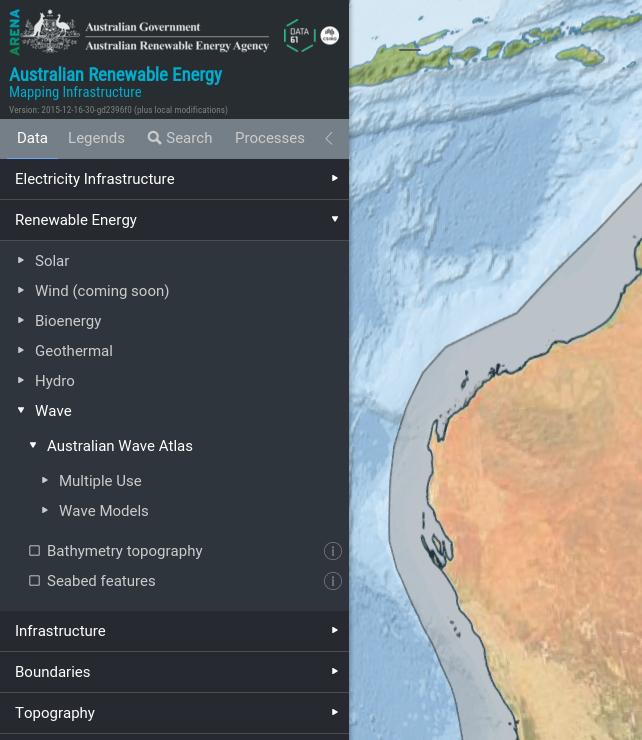
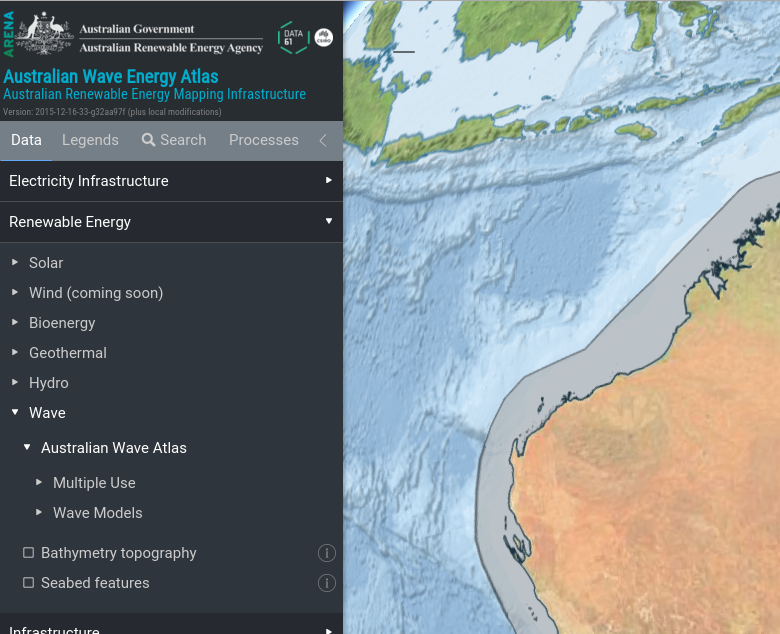
More changes to About.html

diff --git a/wwwroot/index.html b/wwwroot/index.html
@@ -6,6 +6,7 @@
     <meta name="viewport" content="width=device-width, height=device-height, initial-scale=1, maximum-scale=1, minimum-scale=1, user-scalable=no">
     <meta name="description" content="AREMI">
     <meta name="copyright" content="Copyright(c) 2012-2015 National ICT Australia Limited (NICTA).  All rights reserved.">
+    <meta name="copyright" content="Copyright(c) 2015-2016 Commonwealth Scientific and Industrial Research Organisation (CSIRO).  All rights reserved.">
     <meta name="apple-mobile-web-app-capable" content="yes">
 
     <link rel="apple-touch-icon" sizes="57x57" href="favicons/apple-icon-57x57.png">
@@ -27,7 +28,7 @@
     <meta name="msapplication-TileImage" content="favicons/ms-icon-144x144.png">
     <meta name="theme-color" content="#282D32">
 
-    <title>AREMI</title>
+    <title>AWAVEA</title>
 
     <!-- Fonts -->
     <link href='//fonts.googleapis.com/css?family=Roboto:300italic,400,300' rel='stylesheet' type='text/css'>
@@ -45,7 +46,7 @@
     <div id="cesiumContainer" class="full-window map-displaced"></div>
     <div id="ui" class="full-window transparent-to-input">
       <div class="nationalmap-print-disclaimer">
-        ARENA, NICTA and Geoscience Australia (“We”) make no representations or warranties regarding the accuracy or completeness of any content or the product in connection with AREMI. We disclaim all responsibility and all liability (including without limitation, liability in negligence, for errors or omissions) for all expenses, loss, damage and costs which you might incur as a result of the information displayed on AREMI and your use of it. AREMI must not be used for navigation or precise spatial analysis.
+        ARENA, NICTA, CSIRO and Geoscience Australia (“We”) make no representations or warranties regarding the accuracy or completeness of any content or the product in connection with AWAVEA and AREMI. We disclaim all responsibility and all liability (including without limitation, liability in negligence, for errors or omissions) for all expenses, loss, damage and costs which you might incur as a result of the information displayed on AREMI and your use of it. AWAVEA and AREMI must not be used for navigation or precise spatial analysis.
       </div>
     </div>
     <div id="loadingIndicator" class="loadingIndicator"></div>

diff --git a/index.js b/index.js
@@ -214,9 +214,9 @@ terria.start({
                 <a href="http://arena.gov.au/" target="_blank"><img class="left"  src="images/ARENA-logo2.png" alt="Australian Renewable Energy Agency" /></a>\
                 <a href="https://www.nicta.com.au/" target="_blank"><img class="right" src="images/DATA61_CSIRO.png" alt="NICTA" width="55px" height="33px"/></a>\
                 <br/>\
-                <strong>Australian Renewable Energy</strong>\
+                <strong>Australian Wave Energy Atlas</strong>\
                 <br/>\
-                <small>Mapping Infrastructure</small>\
+                <small>Australian Renewable Energy Mapping Infrastructure</small>\
                 <br/>\
                 <span><a target="_blank" href="https://github.com/NICTA/aremi-natmap/blob/master/Changelog.md#version-' + version + '">Version: ' + version + '</a></span>\
             </div>'

diff --git a/wwwroot/About.html b/wwwroot/About.html
@@ -99,6 +99,8 @@
 
         <p>Just go to <a href="http://awavea.csiro.au">http://awavea.csiro.au</a>. The initial map view will show the study area (grey shaded) where wave data can be viewed and analyzed. Most operations are obvious, but you can click the <a href="help/Help.html">Help</a> button for specific instructions.</p>
 
+				<img src="/images/initial-screenshot.png"/>
+
         <p>To see what data is available on <strong>AWAVEA</strong>, refer to the Data Tab in the
         <a href="http://awavea.csiro.au">AWAVEA</a> itself. Click the <b>Data</b> tab and expand the Data Set group names. Wave specific data is available in Renewable Energy>Wave>Australian Wave Atlas.</p>
 

diff --git a/lib/Views/DevelopmentDisclaimer.html b/lib/Views/DevelopmentDisclaimer.html
@@ -7,10 +7,6 @@
     margin: 20px 20px;
 ">
 
-This is the prototype website for the Australian Wave Atlas which will be part of AREMI. It is used for development evaluation purposes only - do not rely on this site or any data presented here for any reason.
-
-<p>To visit the official AREMI site please follow this link:</p>
-
-<p><a href="http://nationalmap.gov.au/renewables/">http://nationalmap.gov.au/renewables/</a></p>
+This is the prototype website for the Australian Wave Energy Atlas (AWAVEA) which is part of AREMI. It is used for development evaluation purposes only - do not rely on this site or any data presented here for any reason.
 
 </div>
